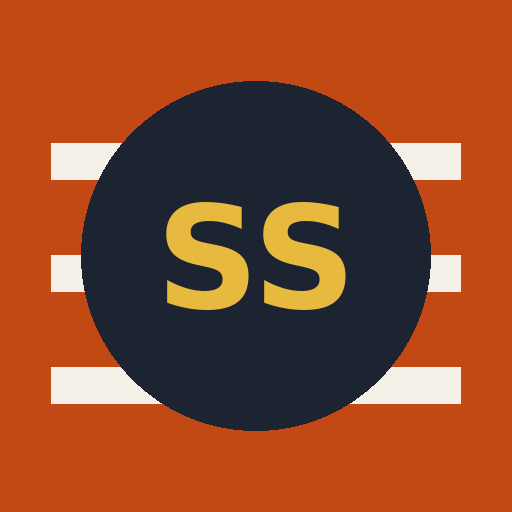
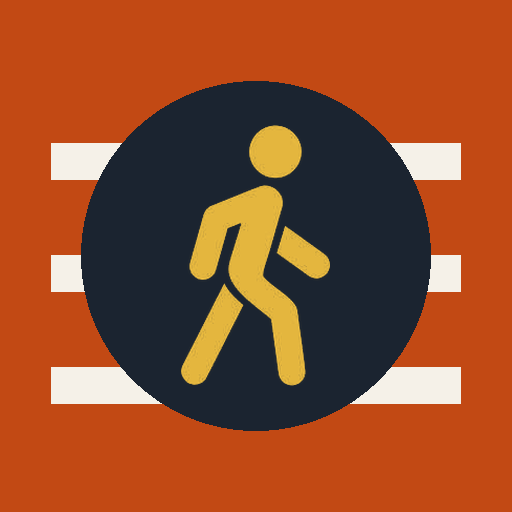
Add files via upload

Changed region(s): [[0.3125, 0.2188, 0.6875, 0.75]]

diff --git a/app.js b/app.js
@@ -172,6 +172,9 @@ async function boot(){
   await refreshBoard();
   await refreshWeight();
   await refreshWater();
+  updateWaterDateLabel();
+  await loadWeightForDate(todayStr());
+  await loadWaterInputForDate(todayStr());
 
   document.getElementById("board-range").addEventListener("change", refreshBoard);
 
@@ -220,20 +223,27 @@ function wireTabs(){
 
 /* ---------- Today (steps — shared/public within the group) ---------- */
 function wireToday(){
+  const dateInput = document.getElementById("steps-date");
+  dateInput.max = todayStr();
+  dateInput.value = todayStr();
+
+  dateInput.addEventListener("change", () => loadStepsForDate(dateInput.value));
+
   document.getElementById("save-steps").addEventListener("click", async () => {
     const val = parseInt(document.getElementById("steps-input").value, 10);
     if(isNaN(val) || val < 0){ toast("Enter a valid step count"); return; }
+    const date = dateInput.value || todayStr();
 
-    const id = `${uid}_${todayStr()}`;
+    const id = `${uid}_${date}`;
     try{
       await db.collection("entries").doc(id).set({
         member: uid,
         name: profile.name,
-        date: todayStr(),
+        date: date,
         steps: val,
         updatedAt: Date.now()
       });
-      toast("Saved!");
+      toast(date === todayStr() ? "Saved!" : `Saved for ${date}`);
       await refreshToday();
       await refreshHistory();
       await refreshBoard();
@@ -244,12 +254,26 @@ function wireToday(){
   });
 }
 
+async function loadStepsForDate(date){
+  const label = document.getElementById("steps-input-label");
+  label.textContent = date === todayStr() ? "Steps" : `Steps (editing ${date})`;
+  try{
+    const snap = await db.collection("entries").doc(`${uid}_${date}`).get();
+    document.getElementById("steps-input").value = snap.exists ? snap.data().steps : "";
+  }catch(e){
+    console.error(e);
+  }
+}
+
 async function refreshToday(){
   const snap = await db.collection("entries").doc(`${uid}_${todayStr()}`).get();
   const steps = snap.exists ? snap.data().steps : 0;
   document.getElementById("today-steps").textContent = steps.toLocaleString();
   document.getElementById("today-distance").textContent = fmtKm(steps, computeStride(profile));
-  if(steps) document.getElementById("steps-input").value = steps;
+  const dateInput = document.getElementById("steps-date");
+  if(dateInput.value === todayStr() && steps){
+    document.getElementById("steps-input").value = steps;
+  }
 }
 
 async function refreshHistory(){
@@ -348,6 +372,19 @@ async function refreshBoard(){
 
 /* ---------- Wellness: weight + water — private, stored under users/{uid}/... ---------- */
 function wireWellness(){
+  const weightDate = document.getElementById("weight-date");
+  weightDate.max = todayStr();
+  weightDate.value = todayStr();
+  weightDate.addEventListener("change", () => loadWeightForDate(weightDate.value));
+
+  const waterDate = document.getElementById("water-date");
+  waterDate.max = todayStr();
+  waterDate.value = todayStr();
+  waterDate.addEventListener("change", () => {
+    updateWaterDateLabel();
+    loadWaterInputForDate(waterDate.value);
+  });
+
   document.querySelectorAll('input[name="weight-unit"]').forEach(radio => {
     radio.addEventListener("change", async () => {
       profile.weightUnit = radio.value;
@@ -361,11 +398,12 @@ function wireWellness(){
     const raw = parseFloat(document.getElementById("weight-input").value);
     if(isNaN(raw) || raw <= 0){ toast("Enter a valid weight"); return; }
     const weightKg = +unitToKg(raw, profile.weightUnit).toFixed(2);
+    const date = weightDate.value || todayStr();
     try{
-      await db.collection("users").doc(uid).collection("weightLogs").doc(todayStr()).set({
-        date: todayStr(), weightKg, updatedAt: Date.now()
+      await db.collection("users").doc(uid).collection("weightLogs").doc(date).set({
+        date: date, weightKg, updatedAt: Date.now()
       });
-      toast("Weight saved");
+      toast(date === todayStr() ? "Weight saved" : `Weight saved for ${date}`);
       await refreshWeight();
     }catch(e){
       console.error(e);
@@ -376,14 +414,16 @@ function wireWellness(){
   document.querySelectorAll("[data-add]").forEach(btn => {
     btn.addEventListener("click", async () => {
       const add = parseInt(btn.dataset.add, 10);
+      const date = waterDate.value || todayStr();
       try{
-        await db.collection("users").doc(uid).collection("waterLogs").doc(todayStr()).set({
-          date: todayStr(),
+        await db.collection("users").doc(uid).collection("waterLogs").doc(date).set({
+          date: date,
           ml: firebase.firestore.FieldValue.increment(add),
           updatedAt: Date.now()
         }, { merge: true });
-        toast(`+${add}ml`);
+        toast(date === todayStr() ? `+${add}ml` : `+${add}ml on ${date}`);
         await refreshWater();
+        await loadWaterInputForDate(date);
       }catch(e){
         console.error(e);
         toast("Couldn't save — check your connection");
@@ -394,17 +434,43 @@ function wireWellness(){
   document.getElementById("save-water").addEventListener("click", async () => {
     const val = parseInt(document.getElementById("water-input").value, 10);
     if(isNaN(val) || val < 0){ toast("Enter a valid amount"); return; }
+    const date = waterDate.value || todayStr();
     try{
-      await db.collection("users").doc(uid).collection("waterLogs").doc(todayStr()).set({
-        date: todayStr(), ml: val, updatedAt: Date.now()
+      await db.collection("users").doc(uid).collection("waterLogs").doc(date).set({
+        date: date, ml: val, updatedAt: Date.now()
       });
-      toast("Water total set");
+      toast(date === todayStr() ? "Water total set" : `Water total set for ${date}`);
       await refreshWater();
     }catch(e){
       console.error(e);
       toast("Couldn't save — check your connection");
     }
   });
+}
+
+async function loadWeightForDate(date){
+  try{
+    const snap = await db.collection("users").doc(uid).collection("weightLogs").doc(date).get();
+    const input = document.getElementById("weight-input");
+    input.value = snap.exists ? kgToUnit(snap.data().weightKg, profile.weightUnit).toFixed(1) : "";
+  }catch(e){
+    console.error(e);
+  }
+}
+
+function updateWaterDateLabel(){
+  const date = document.getElementById("water-date").value;
+  document.getElementById("water-date-label").textContent =
+    date === todayStr() ? "Date (quick-add buttons below apply to this date)" : `Date (editing ${date})`;
+}
+
+async function loadWaterInputForDate(date){
+  try{
+    const snap = await db.collection("users").doc(uid).collection("waterLogs").doc(date).get();
+    document.getElementById("water-input").value = snap.exists ? (snap.data().ml || 0) : "";
+  }catch(e){
+    console.error(e);
+  }
 }
 
 function updateWeightUnitLabel(){

diff --git a/index.html b/index.html
@@ -16,14 +16,7 @@
 <div id="gate" class="gate" style="display:none;">
   <div class="card">
     <div class="brand-row">
-      <svg class="walker" viewBox="0 0 40 60" aria-hidden="true"><g fill="currentColor">
-        <circle cx="20" cy="8" r="6"/>
-        <rect x="15" y="14" width="10" height="22" rx="5"/>
-        <rect x="17" y="34" width="6" height="24" rx="3" transform="rotate(-28 20 34)"/>
-        <rect x="17" y="34" width="6" height="24" rx="3" transform="rotate(28 20 34)"/>
-        <rect x="17" y="16" width="4" height="18" rx="2" transform="rotate(32 19 16)"/>
-        <rect x="19" y="16" width="4" height="18" rx="2" transform="rotate(-32 21 16)"/>
-      </g></svg>
+      <img class="walker" src="walker.png" alt="">
       <h1>Step Track</h1>
     </div>
     <p id="gate-tagline">Sign in to see your steps and the group leaderboard.</p>
@@ -74,14 +67,7 @@
 <div id="app" style="display:none;">
   <header class="top">
     <div class="brand-row">
-      <svg class="walker" viewBox="0 0 40 60" aria-hidden="true"><g fill="currentColor">
-        <circle cx="20" cy="8" r="6"/>
-        <rect x="15" y="14" width="10" height="22" rx="5"/>
-        <rect x="17" y="34" width="6" height="24" rx="3" transform="rotate(-28 20 34)"/>
-        <rect x="17" y="34" width="6" height="24" rx="3" transform="rotate(28 20 34)"/>
-        <rect x="17" y="16" width="4" height="18" rx="2" transform="rotate(32 19 16)"/>
-        <rect x="19" y="16" width="4" height="18" rx="2" transform="rotate(-32 21 16)"/>
-      </g></svg>
+      <img class="walker" src="walker.png" alt="">
       <h1>Step Track</h1>
     </div>
     <p id="header-sub">Loading...</p>
@@ -100,10 +86,14 @@
           </div>
         </div>
         <div style="margin-top:16px;">
-          <label>Log or update today's steps</label>
+          <label>Date</label>
+          <input type="date" id="steps-date">
+        </div>
+        <div style="margin-top:12px;">
+          <label id="steps-input-label">Steps</label>
           <input type="number" id="steps-input" inputmode="numeric" placeholder="e.g. 8342">
         </div>
-        <button class="primary" id="save-steps" style="margin-top:12px;">Save today's steps</button>
+        <button class="primary" id="save-steps" style="margin-top:12px;">Save steps for this date</button>
       </div>
 
       <div class="card">
@@ -150,10 +140,14 @@
         </div>
 
         <div style="margin-top:12px;">
-          <label id="weight-input-label">Log today's weight (kg)</label>
+          <label>Date</label>
+          <input type="date" id="weight-date">
+        </div>
+        <div style="margin-top:12px;">
+          <label id="weight-input-label">Weight (kg)</label>
           <input type="number" step="0.1" id="weight-input" inputmode="decimal" placeholder="e.g. 74.5">
         </div>
-        <button class="primary" id="save-weight" style="margin-top:12px;">Save weight</button>
+        <button class="primary" id="save-weight" style="margin-top:12px;">Save weight for this date</button>
 
         <div class="chart-wrap"><canvas id="weight-chart" height="160"></canvas></div>
         <div id="weight-history" style="margin-top:6px;"></div>
@@ -167,16 +161,20 @@
             <div class="sub-number" id="water-today-l">0.0 L today</div>
           </div>
         </div>
-        <div class="row" style="margin-top:16px; gap:8px;">
+        <div style="margin-top:16px;">
+          <label id="water-date-label">Date (quick-add buttons below apply to this date)</label>
+          <input type="date" id="water-date">
+        </div>
+        <div class="row" style="margin-top:12px; gap:8px;">
           <button class="ghost" data-add="250" style="flex:1;">+250ml</button>
           <button class="ghost" data-add="500" style="flex:1;">+500ml</button>
           <button class="ghost" data-add="1000" style="flex:1;">+1L</button>
         </div>
         <div style="margin-top:12px;">
-          <label>Or set today's exact total (ml)</label>
+          <label>Or set this date's exact total (ml)</label>
           <input type="number" id="water-input" inputmode="numeric" placeholder="e.g. 1750">
         </div>
-        <button class="primary" id="save-water" style="margin-top:12px;">Set total</button>
+        <button class="primary" id="save-water" style="margin-top:12px;">Set total for this date</button>
 
         <div class="chart-wrap"><canvas id="water-chart" height="160"></canvas></div>
       </div>

diff --git a/firebase-config.js b/firebase-config.js
@@ -2,19 +2,13 @@
 // STEP 1 OF SETUP — paste your own Firebase project config here.
 // See SETUP.md for exactly how to get these values (takes ~5 min, free).
 // ============================================================
-// TODO: Add SDKs for Firebase products that you want to use
-// https://firebase.google.com/docs/web/setup#available-libraries
-
-// Your web app's Firebase configuration
-// For Firebase JS SDK v7.20.0 and later, measurementId is optional
 const firebaseConfig = {
-  apiKey: "AIzaSyBlyRYmgQ2pjxDnDRU-fFTQU8xJbXisCz0",
-  authDomain: "step-track-100.firebaseapp.com",
-  projectId: "step-track-100",
-  storageBucket: "step-track-100.firebasestorage.app",
-  messagingSenderId: "394193007112",
-  appId: "1:394193007112:web:94491a29a1819b0fb917bd",
-  measurementId: "G-4H66H48RJB"
+  apiKey: "PASTE_YOUR_API_KEY",
+  authDomain: "PASTE_YOUR_PROJECT.firebaseapp.com",
+  projectId: "PASTE_YOUR_PROJECT_ID",
+  storageBucket: "PASTE_YOUR_PROJECT.appspot.com",
+  messagingSenderId: "PASTE_YOUR_SENDER_ID",
+  appId: "PASTE_YOUR_APP_ID"
 };
 
 // Real sign-in now happens via Firebase Authentication (email + password),

diff --git a/style.css b/style.css
@@ -53,9 +53,9 @@ header.top h1{ font-size: 26px; color: var(--chalk); }
 header.top p{ margin:4px 0 0; font-size: 13px; color: rgba(245,241,232,0.85); }
 
 .brand-row{ display:flex; align-items:center; gap:10px; }
-.walker{ width: 26px; height: 40px; color: var(--chalk); flex-shrink:0; }
+.walker{ height: 40px; width: auto; flex-shrink:0; display:block; }
 .gate .brand-row{ justify-content:center; margin-bottom: 6px; }
-.gate .walker{ color: var(--track); width:24px; height:36px; }
+.gate .walker{ height:36px; }
 
 main{ max-width: 480px; margin: 0 auto; padding: 18px 16px 0; }
 

diff --git a/sw.js b/sw.js
@@ -1,4 +1,4 @@
-const CACHE_NAME = "step-track-v2";
+const CACHE_NAME = "step-track-v4";
 const SHELL_FILES = [
   "./index.html",
   "./style.css",
@@ -6,7 +6,8 @@ const SHELL_FILES = [
   "./firebase-config.js",
   "./manifest.json",
   "./icon-192.png",
-  "./icon-512.png"
+  "./icon-512.png",
+  "./walker.png"
 ];
 
 self.addEventListener("install", (event) => {
